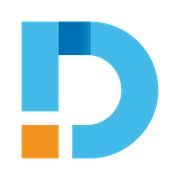
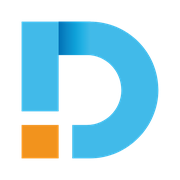
fix(frontend): 리뷰 지적 반영 — 파비콘 그라데이션·danger 대비·과장된 주장 (#151)
## 1. 파비콘 그라데이션이 로고와 달랐다

파비콘 SVG 는 마크를 translate 안에 넣는데, gradientUnits="userSpaceOnUse" 는 **참조하는
요소(rect)의 좌표계**에서 해석된다. x1/x2 에 translate 전 좌표를 넣어 그라데이션이 10.957 만큼
오른쪽으로 밀려 있었다 - 접힘면 대부분이 첫 스톱 색으로 평평하게 칠해지고 오른쪽 끝에서만 풀렸다.

탭의 파비콘과 화면 안 로고가 같은 화면에 있는데 접힘면 음영이 서로 달랐다.

원본 CI PNG 대조 (x = 마크 좌표)
           원본      수정 전     수정 후
  x=24   #0F8DCB   #0070B5    #0B8FCC
  x=27   #0D9FD7   #0070B5    #0FA0D8
  x=31   #23B1E4   #0478BB    #24B2E4
  최대 채널차 7 (5스톱 선형 근사의 오차)

Logo.tsx 의 FOLD_STOPS 자체는 원본과 맞다 - 틀린 것은 파비콘 생성 좌표뿐이었다.

## 2. 삭제 확인 버튼이 다크에서 AA 아래로 더 내려갔다

ConfirmModal 이 bg-danger 위에 text-white 를 **하드코딩**하고 있었다. danger 가
#E0705F → #F07167 로 바뀌며 다크 대비가 3.16 → 2.89 로 떨어졌다 - 삭제 확인 버튼이라
잘못 읽히면 되돌릴 수 없는 자리다.

danger-ink 토큰을 만들어(라이트 #FFFFFF · 다크 #2A0F0C) 6.20:1 로 올렸다.
accent-ink · highlight-ink 와 같은 꼴이다. 이 변경이 만든 회귀를 메운 것이다.

## 3. 주장이 사실보다 컸다

- "채워진 면의 어긋남 0건" → 평면부는 최대 채널차 2 지만 **접힘면 램프는 10** 이다.
  5스톱 선형 근사가 원본의 미세한 비선형을 못 따라간다. 눈으로는 구분되지 않지만 0 은 아니다.
- "전 쌍 34쌍" → 잰 것은 **토큰 쌍 18개**다. 토큰끼리 만나지 않는 조합 둘이 빠져 있었다 :
  입력 테두리(border-line/canvas 1.43 vs WCAG 1.4.11 의 3.0)와 CameraCapture 오류 문구
  (검정 패널 위 3.23). **둘 다 이 PR 이 만든 것이 아니다** - 테두리는 1.24 → 1.43 으로 오히려
  올랐고 CameraCapture 는 전후 동일(다크는 6.53 → 7.17 개선)이다. 색 범위 밖이라 고치지 않고
  「이 표가 덮지 못하는 것」에 기록했다.
- line·ink-muted 가 이슈 제안값보다 짙은 이유(제안값은 「보조/사이드바」가 4.19:1)를 적었다.

## 그 외

- 모바일 헤더 마크를 decorative 로 - 드로어를 열면 사이드바 로고가 같은 이름을 읽어 준다
- ORANGE 경로 끝의 중복 Z 제거 (렌더 결과 동일)
- 그림자 주석이 폐기된 웜 톤을 근거로 들고 있던 것 교체
[…]

Changed region(s): [[0.3611, 0.1111, 0.5278, 0.3056]]

diff --git a/frontend/src/components/Logo.tsx b/frontend/src/components/Logo.tsx
@@ -6,8 +6,9 @@ import { useId } from 'react'
  * **SVG 하나로 라이트·다크가 다 된다.** 자리는 icons.tsx 와 같은 규칙(자체 SVG 는 components/ 안)이다.
  *
  * D 마크 접힘면의 그라데이션은 원본에서 18x17 래스터 마스크였는데, 실측해 보니 y 방향 변화가 전혀 없는
- * **완전한 수평 램프**라 linearGradient 로 갈아끼웠다. 원본 PNG 와 픽셀 대조했을 때 차이는 1px 외곽
- * 앤티에일리어싱뿐이다(채워진 면의 어긋남 0건).
+ * **완전한 수평 램프**라 linearGradient 로 갈아끼웠다. 원본 PNG 와 픽셀 대조한 결과 :
+ * 평면부(세로막대 · 오렌지 블록)는 최대 채널차 2 로 사실상 동일하고, **접힘면 램프만 최대 10** 이다 -
+ * 5스톱 선형 근사라 원본의 미세한 비선형을 못 따라간다. 눈으로는 구분되지 않지만 0 은 아니다.
  *
  * 다크에서 D 마크는 브랜드색을 그대로 둔다 - CI 의 화이트 단색판은 색 재현을 보장 못 하는 인쇄·단색용이고,
  * 화면은 색을 정확히 내므로 브랜드색을 버릴 이유가 없다. 뒤집는 것은 워드마크뿐이다.
@@ -15,7 +16,7 @@ import { useId } from 'react'
 
 // 원본 좌표계(69.394 = D 마크 한 변). 숫자를 손으로 고치지 말 것 - 벡터 원본에서 뽑은 값이다
 const MARK = 'M69.394 34.699 L69.394 34.695 C69.393 15.534 53.86 0.001 34.7 0 L0 0 L0 45.536 L18.779 45.536 L18.779 16.944 L32.981 16.944 C42.712 16.946 50.6 24.894 50.6 34.697 C50.6 44.502 42.71 52.45 32.976 52.45 L25.861 52.45 L25.694 52.45 L25.694 69.394 L34.697 69.393 C53.859 69.393 69.394 53.383 69.394 34.699 Z'
-const ORANGE = 'M0 52.45 H18.779 V69.394 H0 Z Z'
+const ORANGE = 'M0 52.45 H18.779 V69.394 H0 Z'
 const WORDMARK = [
   'M156.953 11.808 H163.305 V49.113 H156.953 Z M139.511 56.338 L164.363 56.338 L164.363 62.163 L133.108 62.163 L133.108 45.08 L139.511 45.08 L139.511 56.338 M138.956 35.334 C140.972 35.334 142.517 34.727 143.593 33.513 C144.669 32.3 145.207 30.517 145.207 28.164 C145.207 25.811 144.669 24.028 143.593 22.815 C142.517 21.602 140.972 20.994 138.956 20.994 C136.905 20.994 135.342 21.602 134.267 22.815 C133.191 24.028 132.654 25.811 132.654 28.164 C132.654 30.517 133.191 32.3 134.267 33.513 C135.342 34.727 136.905 35.334 138.956 35.334 M138.956 41.159 C135.024 41.159 131.931 40.039 129.68 37.798 C127.428 35.558 126.302 32.347 126.302 28.164 C126.302 23.983 127.428 20.77 129.68 18.529 C131.931 16.29 135.024 15.169 138.956 15.169 C142.854 15.169 145.929 16.29 148.181 18.529 C150.432 20.77 151.558 23.983 151.558 28.164 C151.558 32.347 150.432 35.558 148.181 37.798 C145.929 40.039 142.854 41.159 138.956 41.159 Z',
   'M189.104 35.977 C187.105 32.784 186.105 29.284 186.105 25.475 L186.105 15.224 L182.727 15.224 L179.349 15.224 L179.349 25.475 C179.349 29.284 178.349 32.784 176.35 35.977 C174.35 39.171 171.502 42.354 167.805 45.528 L171.939 50.681 C174.157 48.776 176.199 46.741 178.064 44.575 C179.929 42.41 181.483 40.225 182.727 38.022 C183.971 40.225 185.525 42.41 187.39 44.575 C189.255 46.741 191.297 48.776 193.515 50.681 L197.649 45.528 C193.952 42.354 191.104 39.171 189.104 35.977 Z',
@@ -41,10 +42,12 @@ const FOLD_STOPS = [
 interface LogoProps {
   /** `full` 은 마크 + 워드마크, `mark` 는 D 마크만 (좁은 폭·파비콘용) */
   variant?: 'full' | 'mark'
+  /** 같은 화면에 이름을 읽어 주는 로고가 이미 있을 때. 스크린리더에서 숨긴다 */
+  decorative?: boolean
   className?: string
 }
 
-export default function Logo({ variant = 'full', className }: LogoProps) {
+export default function Logo({ variant = 'full', decorative = false, className }: LogoProps) {
   // 사이드바(full)와 모바일 헤더(mark)가 **동시에 DOM 에 있다**(한쪽은 CSS 로만 숨김).
   // 그라데이션 id 를 고정하면 문서에 중복 id 가 생기므로 인스턴스마다 다르게 만든다
   const foldId = useId()
@@ -54,8 +57,9 @@ export default function Logo({ variant = 'full', className }: LogoProps) {
     <svg
       viewBox={mark ? '0 0 69.394 69.394' : '0 0 299.761 69.394'}
       className={className ?? (mark ? 'h-7 w-7' : 'h-7 w-auto')}
-      role="img"
-      aria-label="디인사이트"
+      role={decorative ? undefined : 'img'}
+      aria-label={decorative ? undefined : '디인사이트'}
+      aria-hidden={decorative || undefined}
     >
       <defs>
         <linearGradient id={foldId} x1="18.779" y1="0" x2="35" y2="0" gradientUnits="userSpaceOnUse">

diff --git a/frontend/src/index.css b/frontend/src/index.css
@@ -31,6 +31,7 @@
   --c-highlight: #f2931d;
   --c-highlight-ink: #2a2f33;
   --c-danger: #c0392b;
+  --c-danger-ink: #ffffff;
   --c-danger-soft: #fbe9e7;
 }
 
@@ -48,6 +49,8 @@
   --c-highlight: #f2931d;
   --c-highlight-ink: #1b1205;
   --c-danger: #f07167;
+  /* 다크에서 danger 위에 흰 글자를 얹으면 2.89:1 이다 - 삭제 확인 버튼이라 잘못 읽히면 되돌릴 수 없다 */
+  --c-danger-ink: #2a0f0c;
   --c-danger-soft: #3a1f1c;
 }
 
@@ -64,6 +67,7 @@
   --color-highlight: var(--c-highlight);
   --color-highlight-ink: var(--c-highlight-ink);
   --color-danger: var(--c-danger);
+  --color-danger-ink: var(--c-danger-ink);
   --color-danger-soft: var(--c-danger-soft);
 
   --font-sans: "Pretendard Variable", Pretendard, system-ui, -apple-system, "Segoe UI",
@@ -72,7 +76,7 @@
   /* 모션 시그니처 - 전 컴포넌트가 이 이징 하나를 쓴다. linear · ease-in-out 은 쓰지 않음 */
   --ease-out-quint: cubic-bezier(0.16, 1, 0.3, 1);
 
-  /* 확산형 그림자만 씀. 짙은 그림자는 웜 톤에서 때가 낀 것처럼 보임 */
+  /* 확산형 그림자만 씀. 짙은 그림자는 면 색 차이로 만든 계층을 뭉개 버림 */
   --shadow-ambient: 0 1px 2px rgb(0 0 0 / 0.04), 0 8px 24px -12px rgb(0 0 0 / 0.1);
   --shadow-lifted: 0 2px 4px rgb(0 0 0 / 0.05), 0 16px 40px -16px rgb(0 0 0 / 0.18);
 }

diff --git a/frontend/src/pages/ChatPage.tsx b/frontend/src/pages/ChatPage.tsx
@@ -83,8 +83,9 @@ export default function ChatPage() {
           </button>
 
           {/* md 미만에서는 사이드바가 드로어로 접혀 로고가 보이지 않는다 - 마크만 헤더에 둔다.
-              제목은 truncate 라 이 28px 때문에 잘리기는 해도 밀려나지는 않는다 */}
-          <Logo variant="mark" className="h-7 w-7 shrink-0 md:hidden" />
+              제목은 truncate 라 이 28px 때문에 잘리기는 해도 밀려나지는 않는다.
+              드로어를 열면 사이드바 로고가 같은 이름을 읽어 주므로 이쪽은 장식으로 둔다 */}
+          <Logo variant="mark" decorative className="h-7 w-7 shrink-0 md:hidden" />
 
           {/* 활성 대화 제목 - 클릭하면 인라인 수정(GPT/Claude 방식) */}
           <div className="min-w-0 flex-1">

diff --git a/frontend/src/components/ConfirmModal.tsx b/frontend/src/components/ConfirmModal.tsx
@@ -39,7 +39,7 @@ export default function ConfirmModal({
             <button
               autoFocus
               onClick={onConfirm}
-              className="rounded-full bg-danger px-5 py-2.5 text-sm font-medium text-white transition duration-150 ease-[var(--ease-out-quint)] hover:scale-[1.02] active:scale-[0.98]"
+              className="rounded-full bg-danger px-5 py-2.5 text-sm font-medium text-danger-ink transition duration-150 ease-[var(--ease-out-quint)] hover:scale-[1.02] active:scale-[0.98]"
             >
               {confirmLabel}
             </button>

diff --git a/docs/02_architecture/design-system.md b/docs/02_architecture/design-system.md
@@ -53,7 +53,11 @@
 | `highlight` | `#F2931D` | **배경 전용.** 주의 배지(「자료 없음」) |
 | `highlight-ink` | `#2A2F33` | highlight 위 글자 |
 | `danger` | `#C0392B` | 삭제 · 오류 |
+| `danger-ink` | `#FFFFFF` | danger 위 글자 |
 | `danger-soft` | `#FBE9E7` | 오류 배너 배경 |
+
+`line` 과 `ink-muted` 는 #151 이 처음 제안한 `#DCE3EA` · `#6B747C` 보다 한 단계 짙다.
+제안값으로는 「보조 / 사이드바」가 4.19:1 로 AA 에 못 미쳐 실측 후 내렸다.
 
 ### 다크
 
@@ -71,11 +75,12 @@
 | `highlight` | `#F2931D` | 라이트와 같은 값 — 오렌지는 양쪽에서 다 뜬다 |
 | `highlight-ink` | `#1B1205` | |
 | `danger` | `#F07167` | |
+| `danger-ink` | `#2A0F0C` | **흰색이 아니다** — 다크의 danger 위 흰 글자는 2.89:1 이다 |
 | `danger-soft` | `#3A1F1C` | |
 
 ### 측정한 대비 (WCAG 2.1 상대휘도)
 
-전 쌍을 계산해 라이트·다크 각각 17쌍, **총 34쌍이 기준을 넘는 것을 확인했다.** 빡빡한 쪽만 옮긴다.
+**토큰 쌍** 18개를 라이트·다크 양쪽에서 쟀고 전부 기준을 넘는다. 빡빡한 쪽만 옮긴다.
 
 | 쌍 | 라이트 | 다크 | 기준 |
 |----|--------|------|------|
@@ -86,8 +91,20 @@
 | accent 아이콘 / 사이드바 | 4.64 | 7.31 | 4.5 |
 | 자료없음 글자 / 배지 | 5.77 | 7.90 | 4.5 |
 | 오류 글자 / 오류 배경 | 4.64 | 5.22 | 4.5 |
+| 삭제 확인 버튼 글자 / 버튼 | 5.44 | 6.20 | 4.5 |
 
-**이 값을 검사하는 게이트는 없다.** `check-doc-versions.sh` 가 버전 주장을 지키는 것과 달리
+### 이 표가 덮지 못하는 것
+
+**"토큰 쌍"이라고 쓴 것은 한정이다.** 화면에는 토큰끼리 만나지 않는 조합이 남아 있고,
+그건 위 계산에 들어가지 않는다. 아래 둘이 그렇다 — **#151 이 만든 것이 아니라 그 전부터 있었고,
+#151 범위(색과 로고) 밖이라 고치지 않았다.**
+
+| 자리 | 값 | 기준 | 비고 |
+|------|-----|------|------|
+| `border-line` / `canvas` (입력 테두리) | 1.43 (라이트) | WCAG 1.4.11 은 3.0 | #151 이 1.24 → 1.43 으로 **올렸지만 여전히 미달**. 3.0 을 맞추면 테두리가 눈에 띄게 진해져 색 범위를 넘는 디자인 변경이 된다 |
+| `text-danger` / `bg-black/90` (`CameraCapture`) | 3.23 (라이트) | 4.5 | #151 전후 동일(3.23 → 3.23). 다크는 6.53 → 7.17 로 개선됐다. 안쪽 미리보기를 검정으로 두는 것은 §5 의 결정이다 |
+
+**대비 주장을 검사하는 게이트는 없다.** `check-doc-versions.sh` 가 버전 주장을 지키는 것과 달리
 대비 주장은 아무도 안 본다 — 색을 건드리면 이 표를 손으로 다시 재야 한다.
 (#151 에서 게이트 신설은 범위 밖으로 두었다. 필요해지면 별도 이슈로 다룬다.)
 
@@ -214,8 +231,20 @@ bg-highlight · text-highlight-ink · bg-danger-soft
 뒤집는 것은 워드마크뿐이다.
 
 접힘면 그라데이션은 원본에서 **18x17 래스터 마스크**였다. 실측해 보니 y 방향 변화가 전혀 없는 완전한
-수평 램프라 `linearGradient` 로 갈아끼웠다 — 원본 PNG 와 픽셀 대조했을 때 차이는 1px 외곽
-앤티에일리어싱뿐이고 채워진 면의 어긋남은 0건이다.
+수평 램프라 `linearGradient` 로 갈아끼웠다. 원본 PNG 와 픽셀 대조한 결과는 :
+
+| 영역 | 최대 채널차 |
+|------|-------------|
+| 세로막대 · 오렌지 블록 등 평면부 | 2 (래스터화 잡음) |
+| **접힘면 램프 안쪽** | **10** |
+
+램프가 0 이 아닌 것은 5스톱 선형 근사가 원본의 미세한 비선형을 못 따라가기 때문이다.
+눈으로는 구분되지 않지만 **"완전히 같다"고 적지 않는다.**
+
+**파비콘도 같은 그라데이션을 써야 한다.** 파비콘 SVG 는 마크를 `translate` 안에 넣는데,
+`gradientUnits="userSpaceOnUse"` 는 **참조하는 요소의 좌표계**에서 해석되므로 `x1`/`x2` 도
+translate 안 좌표를 써야 한다 — 밖 좌표를 넣으면 그라데이션이 그만큼 밀려, 탭의 파비콘과
+화면 안 로고의 접힘면 음영이 서로 달라진다.
 
 **경로 좌표를 손으로 고치지 않는다.** 벡터 원본에서 뽑은 값이며, 고칠 일이 생기면 원본에서 다시 뽑는다.
 

diff --git a/docs/06_changelog/CHANGELOG.md b/docs/06_changelog/CHANGELOG.md
@@ -14,8 +14,13 @@
   **둘 다 버튼색으로 쓸 수 없다.** 원색을 임의로 어둡게 깎는 대신 원본 PNG 를 x 방향으로 훑어
   D 마크 접힘면 그라데이션 안에서 5.3:1 을 버는 **실재하는 픽셀** `#0070B5` 를 찾아 `accent` 로 삼았다.
   오렌지는 AA 까지 깎으면 `#965D0B` 수준의 갈색이 되어 브랜드 인식이 깨지므로 **배경 칠 전용**
-  (`highlight`)으로 역할을 한정했다. 라이트·다크 34쌍을 전부 계산해 기준을 넘는 것을 확인했고
+  (`highlight`)으로 역할을 한정했다. 토큰 쌍 18개를 라이트·다크 양쪽에서 재 전부 기준을 넘겼고,
   값은 `design-system.md` 「측정한 대비 (WCAG 2.1 상대휘도)」에 남겼다.
+
+  **토큰끼리 만나지 않는 조합 둘은 그 표가 못 덮는다** — 입력 테두리(`border-line`/`canvas`,
+  1.43 vs 1.4.11 의 3.0)와 `CameraCapture` 오류 문구(검정 패널 위 3.23). 둘 다 이 변경이 만든 것이
+  아니고(테두리는 1.24 → 1.43 으로 오히려 올랐다) 색 범위 밖이라 고치지 않았으며, 그 사실을
+  「이 표가 덮지 못하는 것」에 적어 두었다.
 
   **신규 토큰 셋에는 각각 쓰는 자리가 있다.** `highlight`·`highlight-ink` 는 「자료 없음」 배지가
   갔다 — 그 배지는 **동작이 아니라 주의**인데 여태 `accent`(동작색)를 쓰고 있었다.
@@ -32,7 +37,14 @@
   CI 에 화이트 단색판이 있지만 **다크에서도 D 마크는 브랜드색을 유지한다** : 그 판은 색 재현을
   보장 못 하는 인쇄·단색 용도이고, 화면에서 시안·오렌지는 어두운 면에서 오히려 잘 산다.
   접힘면 그라데이션은 원본이 18x17 래스터 마스크였으나 y 변화가 0 인 완전한 수평 램프라
-  `linearGradient` 로 갈아끼웠다 — 원본과 픽셀 대조 시 차이는 1px 외곽 앤티에일리어싱뿐이다.
+  `linearGradient` 로 갈아끼웠다. 원본과 픽셀 대조하면 평면부는 최대 채널차 2 로 사실상 같고
+  **접힘면 램프만 10** 이다 — 5스톱 선형 근사라 미세한 비선형을 못 따라간다. 눈으로는 구분되지
+  않지만 "완전히 같다"고 적지 않았다.
+
+  **danger 위 글자를 토큰으로 바꿨다.** `ConfirmModal` 이 `bg-danger` 위에 `text-white` 를
+  하드코딩하고 있어, danger 가 `#E0705F` → `#F07167` 로 바뀌며 다크에서 3.16 → **2.89** 로
+  떨어졌다 — 삭제 확인 버튼이라 잘못 읽히면 되돌릴 수 없는 자리다. `danger-ink` 를 만들어
+  (라이트 흰색 · 다크 `#2A0F0C`) 6.20:1 로 올렸다. 이 변경이 만든 회귀를 메운 것이다.
 
   배치는 로그인 · 사이드바 · 모바일 헤더 · 파비콘 4종이다. 사이드바에서 좁아질 때 마크로 줄이는
   분기는 **두지 않았다** — 락업이 `h-7` 에서 121px 이고 사이드바 최소 폭이 200px 이라 늘 들어간다.
